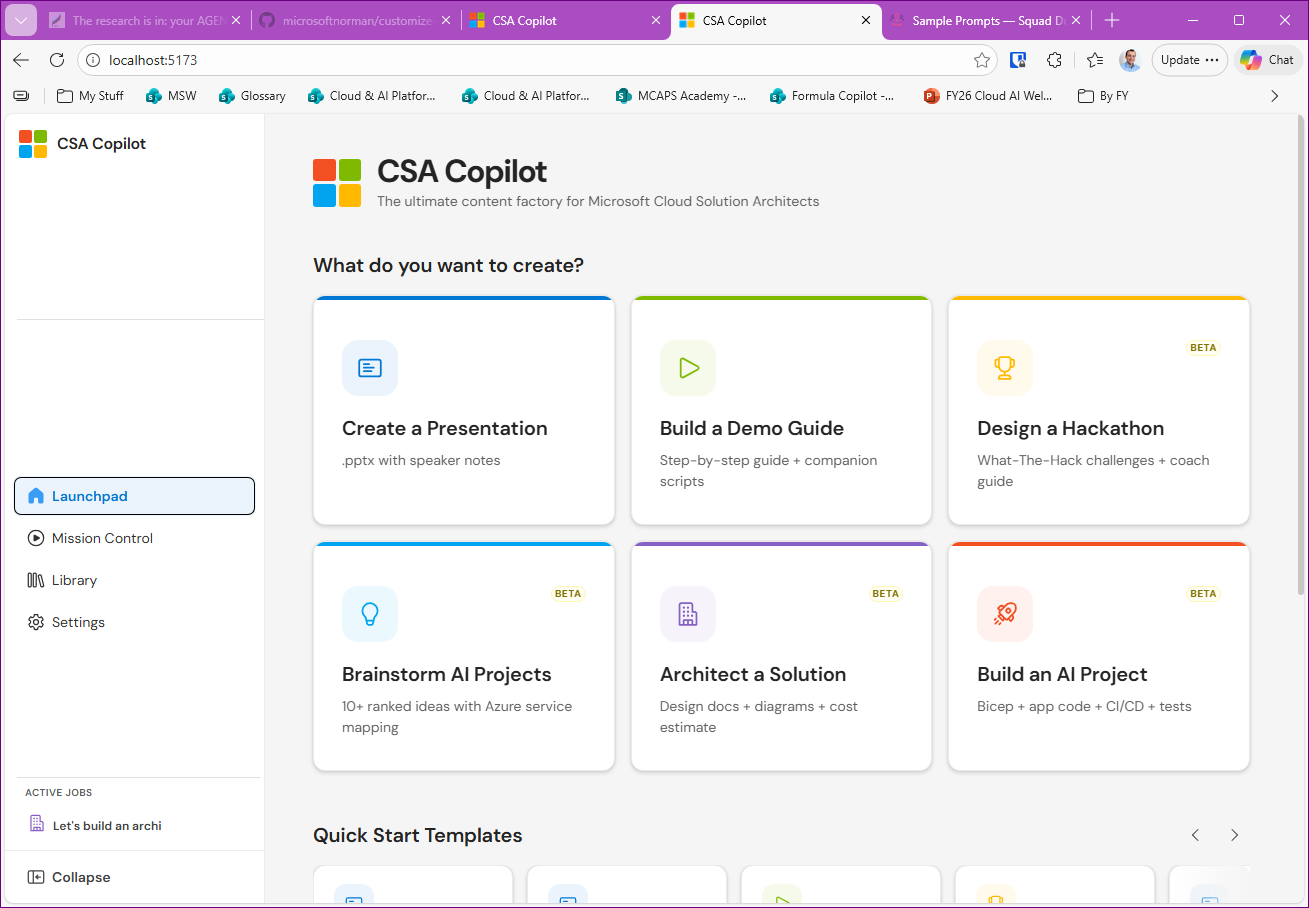
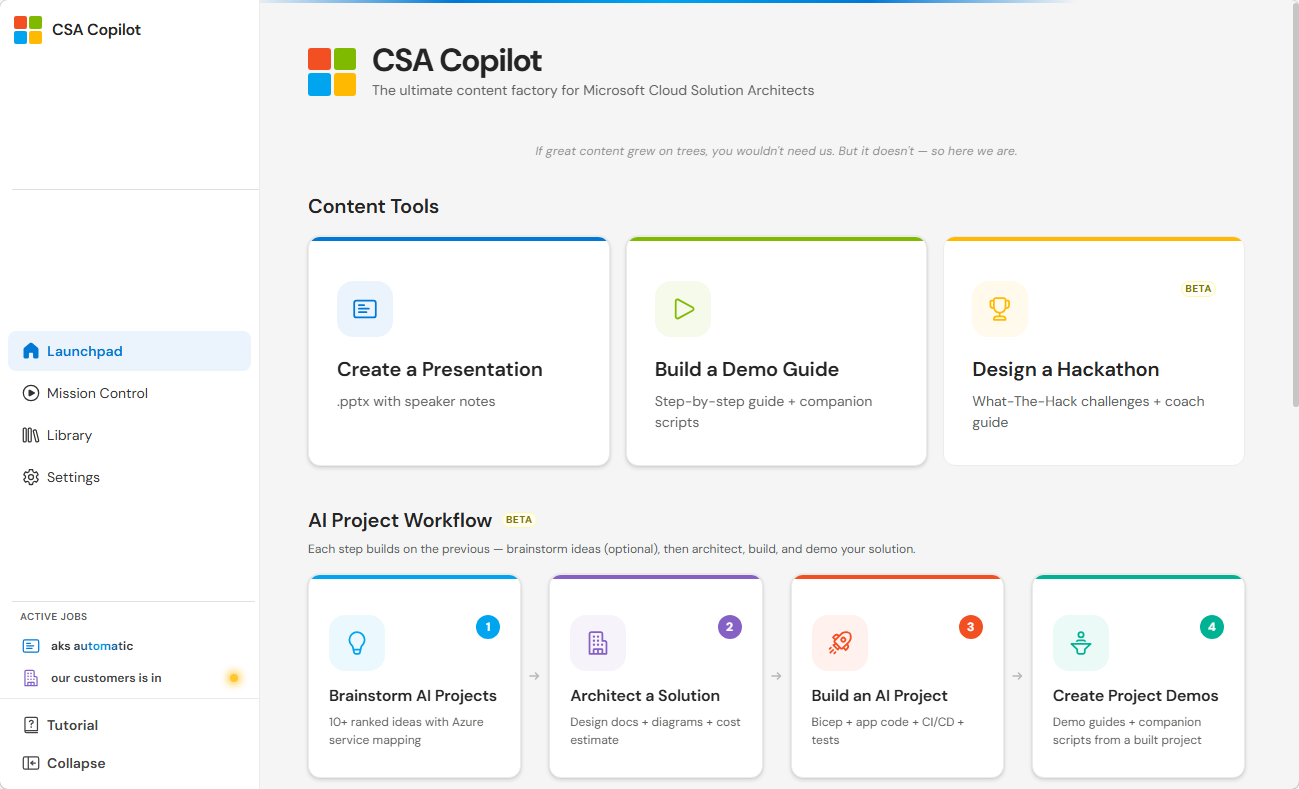
Implement structure for code changes with placeholders for future updates

diff --git a/README.md b/README.md
@@ -1,196 +1,121 @@
 # CSA-Copilot
 
-> AI-powered engagement platform for Cloud Solution Architects — from meeting prep to production-ready Azure delivery
+**Stop spending tonight copy-pasting from MS Learn.** CSA-Copilot turns a single prompt into slide decks, demo guides, hackathon packages, and full Azure projects — researched, built, and QA-checked by 27 AI agents. You describe what you need. They deliver. You review and present.
 
-> [!WARNING]
-> **CLI vs Web UI.** CSA-Copilot ships two interfaces. The **[CLI](#quickstart--cli-recommended)** is the **stable, battle-tested path** — all workflows (slides, demos, AI projects, hackathons) have been developed and validated there. The **[Desktop / Web UI](#quickstart--desktop-app-experimental-)** is **experimental** — it works for most flows but may have rough edges, missing features, or unexpected behaviour. Start with the CLI if you want the most reliable experience.
-
-![CSA-Copilot](assets/screenshots/csa-copilot-web1.png)
-
-<details>
-<summary>More screenshots</summary>
-
-![CSA-Copilot detail](assets/screenshots/csa-copilot-web2.png)
-
-</details>
+<p align="center">
+  <img src="assets/screenshots/csa-copilot-demo.gif" alt="CSA-Copilot in action" width="100%">
+</p>
 
 ---
 
-## What This Is
+## Get Running in 2 Minutes
 
-Customer meeting on Wednesday, and you need a 45-slide deck on a service you last touched three months ago. The official deck is two releases behind. Your demo scripts live in five different OneNote pages. You'll spend tonight copy-pasting from MS Learn and wrangling PowerPoint.
-
-CSA-Copilot kills that cycle. It's an AI platform built on the GitHub Copilot SDK with **four workflows** — each run by a conductor agent that orchestrates specialist subagents, asks for your approval at key stops, and runs QA checks before delivering output. 27 agents behind the scenes; you just describe what you need.
-
-1. **Presentations** — Complete `.pptx` with speaker notes from a single prompt, researched against official sources
-2. **Demos** — Step-by-step guides with runnable scripts, troubleshooting tables, and "say this" presenter cues
-3. **AI Projects** — Blank page → production-ready Azure project: brainstorm → architecture → Bicep + app code + CI/CD + tests, with a 4-reviewer gate
-4. **Hackathons** — What-The-Hack-style packages with progressive challenges, coach materials, and dev containers
-
-> [!IMPORTANT]
-> **Deep research, not instant generation.** A slide deck takes **~1 hour**, demos 30-45 min, AI projects 1 hour+. That replaces 4-8 hours of manual work. Kick it off and do something else.
->
-> **Accelerator, not autopilot.** Output is a strong first draft with sourced claims and tested code. You own it, refine it, present it.
-
----
-
-## A Day in the Life
-
-| Situation | Prompt | Result |
-|-----------|--------|--------|
-| Manager wants a tech update | "Create a 15min L200 briefing on what's new in AKS" | 12-slide deck with speaker notes from MS Learn + devblogs |
-| Customer meeting needs deep coverage | "1-hour L300 deck on GitHub Copilot extensions for financial services" | 30 slides with presenter transcripts, plan approval before build |
-| You already have research notes | "Build a 30min L200 deck from notes/aks-security-review.md" | Deck built from your material, not web research |
-| Demo day for a customer | "Create 3 L300 demos on Azure Container Apps" | Guide + companion scripts + troubleshooting tables + "say this" boxes |
-| Pre-sales brainstorm | "@ai-brainstorming AI use cases for a healthcare company" | 10+ ranked ideas with impact scores, Azure services, phased roadmap |
-| Architecture engagement | "@ai-solution-architect Design architecture for idea #3" | 5 docs: solution design, diagrams, cost estimation, delivery plan |
-| Delivery kickoff | "@ai-implementor Implement the solution" | Bicep + app code + CI/CD + tests (80% coverage gate), 4-reviewer approval |
-| Continue yesterday's work | `/resume` | Full context restored — sessions survive across days |
-| Partner enablement event | "@hackathon-conductor Full-day L300 hackathon on Container Apps" | Challenges + solutions + dev container + coach materials, repo-ready |
-
----
-
-## Workflows
-
-### Presentations
-
-The **Slide Conductor** researches official sources, presents a plan for your approval, builds slides with QA checks, and drops the `.pptx` + generator script into `outputs/slides/`. Also handles technical update briefings and slides from your own notes.
-
-### Demos
-
-The **Demo Conductor** produces a Markdown guide with runnable companion scripts → `outputs/demos/`. Each demo includes step-by-step instructions, "say this" presenter cues, a WOW moment, a troubleshooting table, and companion scripts.
-
-### AI Projects — Idea to Production
-
-Three conductor agents, each with mandatory quality gates:
-
-| Stage | Agent | Output |
-|-------|-------|--------|
-| **Brainstorm** | `@ai-brainstorming` | 10+ ranked ideas with impact scores, Azure mappings, phased roadmap |
-| **Architecture** | `@ai-solution-architect` | 5 docs: solution design, draw.io + ASCII diagrams, cost estimation, delivery plan |
-| **Implementation** | `@ai-implementor` | Bicep infra + app code + CI/CD + tests (80% coverage gate). 4-reviewer approval required |
-
-### Hackathon Events
-
-The **Hackathon Conductor** creates What-The-Hack-style packages: progressive challenges, coach solutions, dev container for Codespaces, facilitation guide, and scoring rubric.
-
-| Duration | Challenges | Spread |
-|----------|-----------|--------|
-| 2 hours | 3-4 | setup → easy → medium |
-| 4 hours | 5-6 | setup → easy → medium → hard |
-| 8 hours | 8-10 | setup → easy → medium → hard → expert |
-
----
-
-## Sample Outputs
-
-Raw, un-edited output — straight from the agents, so you know what to expect.
-
-| | | | |
-|:---:|:---:|:---:|:---:|
-| ![Title slide](assets/screenshots/sample-slide-01.jpg) | ![Section slide](assets/screenshots/sample-slide-11.jpg) | ![Deep dive slide](assets/screenshots/sample-slide-12.jpg) | ![Architecture slide](assets/screenshots/sample-slide-22.jpg) |
-| Title slide | Section | Technical deep dive | Architecture pattern |
-
-*From: Microsoft Fabric - Trustworthy Data (L300, 2h)*
-
-Browse the full output library: [slides](samples/slides/README.md) · [demos](samples/demos/README.md) · [hackathons](samples/hackathons/README.md) · [AI projects](samples/ai-projects/README.md)
-
----
-
-## Architecture
-
-**Routing.** `@agent-name` goes directly to that agent. Otherwise, a GPT-4.1 classifier picks the best match from all routable agent descriptions. No match → default Copilot agent handles it.
-
-**Model selection.** Each agent has a preferred model (claude-sonnet-4.6 for slides/demos/implementation, claude-opus-4.6 for brainstorming/architecture). Override anytime with `/model`.
-
----
-
-## Quality and Trust
-
-Every output goes through multiple quality layers before delivery. See [docs/QUALITY.md](docs/QUALITY.md) for full details.
-
-- **Official sources only** — research restricted to MS Learn, docs.github.com, github.blog, devblogs.microsoft.com, techcommunity.microsoft.com
-- **Human approval stops** — plan approval before builds, output review before delivery
-- **Automated QA checks** — PPTX, architecture, infra, pipeline, docs, and hackathon validators
-- **Content humanization** — AI-tell detection with humanity scoring and automatic rewrites
-- **4-reviewer gate** — code, infra, pipeline, docs reviewers must all APPROVE before AI project delivery
-- **80% test coverage** — enforced via `pytest --cov` threshold
-
----
-
-## Reference Tables
-
-### Content Levels
-
-| Level | Audience | Description |
-|-------|----------|-------------|
-| **L100** | Business / Executive | Value propositions, no code |
-| **L200** | Technical decision makers | Architecture, key concepts |
-| **L300** | Practitioners | Implementation, code samples, best practices |
-| **L400** | Experts | Internals, performance, advanced patterns |
-
-### Slide Durations
-
-| Duration | Approx. slides |
-|----------|---------------|
-| 15 min | 10-14 |
-| 30 min | 15-20 |
-| 1 hour | 25-35 |
-| 2 hours | 40-55 |
-| 4 hours | 70-90 |
-
----
-
-## Getting Started
-
-### Prerequisites
-
-- A **GitHub Copilot** subscription (Individual, Business, or Enterprise) with CLI access
-- The [**GitHub CLI** (`gh`)](https://cli.github.com/) installed and authenticated (`gh auth login`)
-
-### Quickstart
+You need a [GitHub Copilot](https://github.com/features/copilot) subscription and the [GitHub CLI](https://cli.github.com/) (`gh auth login`).
 
 ```bash
 git clone https://github.com/olivomarco/vbd-copilot.git
 cd vbd-copilot
-
-# One-time setup (Python venv + frontend deps)
-./scripts/setup.sh
-
-# Run the app
-./scripts/dev.sh              # Browser UI  — http://localhost:5173
-./scripts/dev.sh --electron   # Desktop UI  — Electron window
-./scripts/dev.sh --cli        # CLI         — Docker container
+./scripts/setup.sh            # one-time: venv + frontend deps
+./scripts/dev.sh              # Browser UI → http://localhost:5173
+./scripts/dev.sh --electron   # Desktop UI
+./scripts/dev.sh --cli        # CLI (Docker)
 ```
 
 > [!TIP]
-> `setup.sh` checks prerequisites (`gh`, `uv`, `node`), creates the Python venv, installs backend and frontend dependencies. Run it once.
-> Pass `--with-system-deps` to also install `libreoffice-impress` and `poppler-utils` (needed for PPTX thumbnails).
-
-![CSA-Copilot CLI](assets/screenshots/csa-copilot-cli.png)
+> `setup.sh` checks prerequisites (`gh`, `uv`, `node`) and installs everything. Pass `--with-system-deps` to also install LibreOffice and Poppler (PPTX thumbnails).
 
 > [!WARNING]
-> The **CLI** is the **stable, fully-tested** interface. The **Browser / Electron UI** is **experimental** — it works for most flows but may have rough edges. If something breaks, fall back to `./scripts/dev.sh --cli`.
+> The **CLI** is battle-tested. The **Browser / Electron UI** is experimental — if something breaks, fall back to `--cli`.
 
-More install methods (Codespaces, Copilot plugin, native, standalone Electron build): [docs/INSTALLATION.md](docs/INSTALLATION.md)
-
----
-
-### All Installation Options
-
-| Option | Interface | Stability | Setup effort | Details |
-|--------|-----------|-----------|-------------|--------|
-| **Docker** | CLI | ✅ Stable | Low | [docs/INSTALLATION.md § Docker](docs/INSTALLATION.md#option-c--cli-via-docker) |
-| **Codespaces** | CLI | ✅ Stable | Zero | [docs/INSTALLATION.md § Codespaces](docs/INSTALLATION.md#option-d--cli-via-github-codespaces-zero-install) |
-| **Native Python** | CLI | ✅ Stable | Medium | [docs/INSTALLATION.md § Native](docs/INSTALLATION.md#option-e--cli-native-install) |
-| **Copilot Plugin** | CLI (inside Copilot) | ✅ Stable | Low | [docs/INSTALLATION.md § Plugin](docs/INSTALLATION.md#option-b--install-as-a-github-copilot-plugin) |
-| **Desktop (Electron)** | GUI | 🧪 Experimental | Medium | [docs/INSTALLATION.md § Desktop](docs/INSTALLATION.md#option-a--desktop-app-experimental-) |
-| **Browser** | GUI | 🧪 Experimental | Medium | [docs/INSTALLATION.md § Browser](docs/INSTALLATION.md#run-in-the-browser-no-electron) |
-
-Full command reference and usage examples: [docs/USAGE.md](docs/USAGE.md)
+More install options (Codespaces, Copilot plugin, native Python): [docs/INSTALLATION.md](docs/INSTALLATION.md)
 
 ---
 
-## Responsible AI
+## What It Does
 
-Human-in-the-loop approval, official-sources-only research, no sensitive data in prompts, transparent first-draft output. Full policy: [docs/RESPONSIBLE-AI.md](docs/RESPONSIBLE-AI.md)
+Four workflows. Each one researches official sources, asks for your approval at checkpoints, and runs automated QA before delivery.
+
+| Workflow | What you say | What you get | Time saved |
+|----------|-------------|--------------|------------|
+| **Presentations** | *"1-hour L300 deck on GitHub Copilot extensions"* | `.pptx` + speaker notes + generator script | 4-6h → ~1h |
+| **Demos** | *"3 L300 demos on Azure Container Apps"* | Step-by-step guide + runnable scripts + troubleshooting table | 3-4h → ~30min |
+| **AI Projects** | *"Automate claim processing for insurance"* | Brainstorm → architecture → Bicep + app code + CI/CD + tests | Days → ~1h |
+| **Hackathons** | *"Full-day L300 hackathon on Container Apps"* | Challenges + coach solutions + dev container + scoring rubric | 1-2 days → ~1h |
+
+> [!IMPORTANT]
+> This is deep research, not instant generation. A deck takes ~1 hour — but that replaces 4-8 hours of manual work. Kick it off and do something else.
+
+---
+
+## See It in Action
+
+<table>
+<tr>
+<td width="50%"><strong>Launchpad — pick your workflow</strong><br><img src="assets/screenshots/csa-copilot-web1.png" alt="Launchpad"></td>
+<td width="50%"><strong>Library — browse and preview outputs</strong><br><img src="assets/screenshots/csa-copilot-web2.png" alt="Slide viewer"></td>
+</tr>
+<tr>
+<td><strong>AI agents ask clarifying questions</strong><br><img src="assets/screenshots/csa-copilot-web3.png" alt="Interactive questions"></td>
+<td><strong>Full architecture diagrams, auto-generated</strong><br><img src="assets/screenshots/csa-copilot-web4.png" alt="Architecture diagram"></td>
+</tr>
+<tr>
+<td><strong>Hackathon packages ready for Codespaces</strong><br><img src="assets/screenshots/csa-copilot-web5.png" alt="Hackathon package"></td>
+<td><strong>CLI — same power, no browser needed</strong><br><img src="assets/screenshots/csa-copilot-cli.png" alt="CLI interface"></td>
+</tr>
+</table>
+
+### Sample slide output (raw, unedited)
+
+| | | | | |
+|:---:|:---:|:---:|:---:|:---:|
+| ![](assets/screenshots/sample-slide-01.jpg) | ![](assets/screenshots/sample-slide-05.jpg) | ![](assets/screenshots/sample-slide-11.jpg) | ![](assets/screenshots/sample-slide-12.jpg) | ![](assets/screenshots/sample-slide-22.jpg) |
+| Title slide | Section divider | Content slide | Deep dive | Architecture |
+
+Browse all samples: [slides](samples/slides/README.md) · [demos](samples/demos/README.md) · [hackathons](samples/hackathons/README.md) · [AI projects](samples/ai-projects/README.md)
+
+---
+
+## Quick Reference
+
+### Content levels
+
+| Level | Audience | What it looks like |
+|-------|----------|-------------------|
+| **L100** | Executives | Value props, no code |
+| **L200** | Technical decision makers | Architecture, key concepts |
+| **L300** | Practitioners | Code samples, implementation patterns |
+| **L400** | Experts | Internals, performance tuning |
+
+### Prompt examples
+
+```text
+"Create a 15min L200 briefing on what's new in AKS"
+"Build a 30min deck from notes/aks-security-review.md"
+"@ai-brainstorming AI use cases for a healthcare company"
+"@ai-solution-architect Design architecture for idea #3"
+"@ai-implementor Implement the solution"
+"@hackathon-conductor 4-hour L300 hackathon on AKS"
+/resume                    # pick up where you left off
+/model                     # switch models mid-session
+```
+
+---
+
+## Quality Gates
+
+Every output passes through multiple checks before delivery. Details: [docs/QUALITY.md](docs/QUALITY.md)
+
+- Research restricted to official sources (MS Learn, docs.github.com, devblogs, techcommunity)
+- Human approval stops before builds and before delivery
+- Automated QA validators for PPTX, architecture, infra, pipelines, docs, and hackathons
+- Content humanization — AI-tell detection with automatic rewrites
+- 4-reviewer gate on AI projects (code, infra, pipeline, docs must all approve)
+- 80% test coverage enforced via `pytest --cov`
+
+---
+
+## More
+
+- [Full usage guide & commands](docs/USAGE.md)
+- [All installation options](docs/INSTALLATION.md)
+- [Responsible AI policy](docs/RESPONSIBLE-AI.md)
